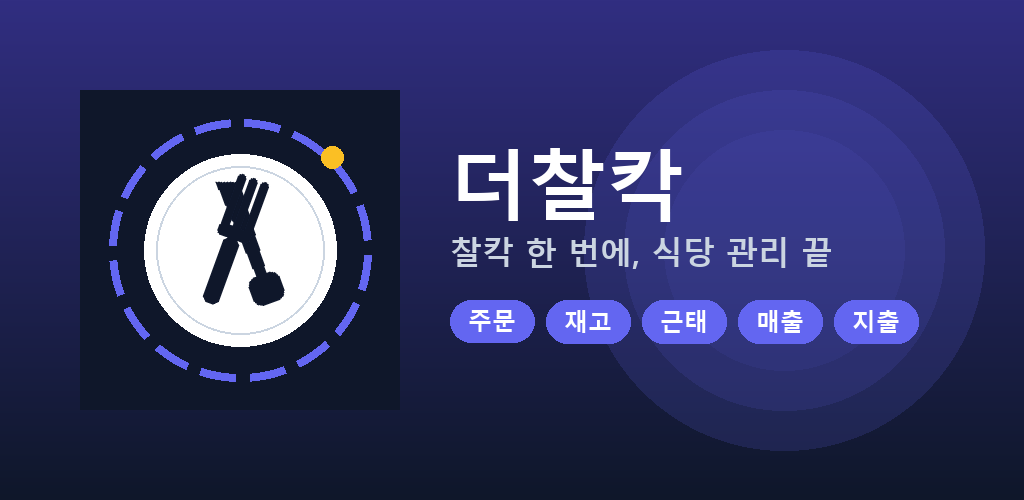
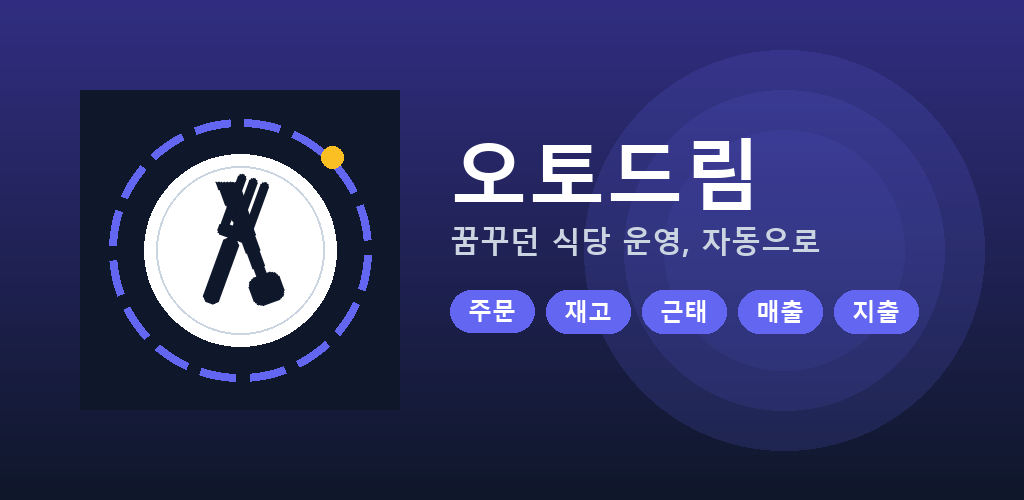
rebrand: 더찰칵 → 오토드림 + Play Store listing 정리
텍스트 변경
- manifest.ts: name/short_name/description 오토드림 반영
- layout.tsx: title, applicationName, appleWebApp.title
- 로그인 페이지: 브랜드명 + 슬로건 ("꿈꾸던 식당 운영, 오토드림이 해드립니다")
- 사장 헤더: 로고 alt 텍스트
- 개인정보처리방침: 서비스명 전체 치환 (page title 포함)

이미지
- public/feature-graphic-1024x500.png 재생성
  "오토드림" 타이틀 + "꿈꾸던 식당 운영, 자동으로" 서브 카피
  기존 로고(접시+포크&나이프+셔터링) 유지 — 식당 컨셉 지속

문서
- PLAY_STORE_LISTING.md 전면 개편: 브랜드명, 설명(체크리스트/메모/엑셀 업로드 등
  신기능 반영), Package ID com.autodream.app 기록

Package ID 변경(com.dechalkak.app → com.autodream.app)은 PWABuilder에서
새 AAB 재생성 + 새 keystore 발급 필요. 별도 단계로 진행.

Changed region(s): [[0.4375, 0.27, 0.8125, 0.54], [0.4375, 0.57, 0.9062, 0.69]]

diff --git a/src/app/privacy/page.tsx b/src/app/privacy/page.tsx
@@ -1,8 +1,8 @@
 import type { Metadata } from "next";
 
 export const metadata: Metadata = {
-  title: "개인정보처리방침 | 더찰칵",
-  description: "더찰칵 앱의 개인정보처리방침",
+  title: "개인정보처리방침 | 오토드림",
+  description: "오토드림 앱의 개인정보처리방침",
 };
 
 export const dynamic = "force-static";
@@ -17,7 +17,7 @@ export default function PrivacyPolicyPage() {
       <p className="mt-2 text-sm text-slate-500">시행일: {EFFECTIVE_DATE}</p>
 
       <p className="mt-6 leading-relaxed">
-        더찰칵(이하 &ldquo;서비스&rdquo;)은 식당 운영에 필요한 주문, 재고, 근태, 매출,
+        오토드림(이하 &ldquo;서비스&rdquo;)은 식당 운영에 필요한 주문, 재고, 근태, 매출,
         지출 관리를 위한 웹 및 모바일 애플리케이션입니다. 본 방침은 서비스가 수집하는
         개인정보의 종류, 이용 목적, 보관 기간, 제3자 제공, 이용자의 권리 등에 대해
         설명합니다.

diff --git a/src/app/(auth)/login/page.tsx b/src/app/(auth)/login/page.tsx
@@ -47,7 +47,7 @@ export default function LoginPage() {
           <div className="mx-auto mb-4 h-20 w-20 rounded-2xl overflow-hidden shadow-[0_0_40px_rgba(99,102,241,0.35)] ring-1 ring-white/10">
             <Image
               src="/icon-512.png"
-              alt="더찰칵"
+              alt="오토드림"
               width={80}
               height={80}
               className="h-full w-full object-cover"
@@ -55,10 +55,10 @@ export default function LoginPage() {
             />
           </div>
           <h1 className="text-3xl font-bold tracking-tight bg-gradient-to-r from-indigo-200 via-white to-indigo-200 bg-clip-text text-transparent">
-            더찰칵
+            오토드림
           </h1>
           <p className="mt-2 text-sm text-slate-400">
-            찰칵 한 번에, 식당 관리 끝
+            꿈꾸던 식당 운영, 오토드림이 해드립니다
           </p>
         </div>
 

diff --git a/src/app/manifest.ts b/src/app/manifest.ts
@@ -2,9 +2,9 @@ import type { MetadataRoute } from "next";
 
 export default function manifest(): MetadataRoute.Manifest {
   return {
-    name: "더찰칵",
-    short_name: "더찰칵",
-    description: "더찰칵 - 식당 운영을 위한 주문, 재고, 근태, 매출 관리 시스템",
+    name: "오토드림",
+    short_name: "오토드림",
+    description: "오토드림 - 자동화로 편해지는 식당 운영 관리 시스템 (주문·재고·근태·매출·지출)",
     start_url: "/",
     scope: "/",
     display: "standalone",

diff --git a/src/app/layout.tsx b/src/app/layout.tsx
@@ -15,13 +15,13 @@ const geistMono = Geist_Mono({
 });
 
 export const metadata: Metadata = {
-  title: "더찰칵",
-  description: "더찰칵 - 식당 관리 시스템",
-  applicationName: "더찰칵",
+  title: "오토드림",
+  description: "오토드림 - 자동화로 편해지는 식당 운영 관리",
+  applicationName: "오토드림",
   appleWebApp: {
     capable: true,
     statusBarStyle: "default",
-    title: "더찰칵",
+    title: "오토드림",
   },
   formatDetection: {
     telephone: false,

diff --git a/src/components/owner/OwnerHeader.tsx b/src/components/owner/OwnerHeader.tsx
@@ -20,7 +20,7 @@ export default function OwnerHeader() {
           <div className="h-7 w-7 overflow-hidden rounded-lg ring-1 ring-white/10">
             <Image
               src="/icon-192.png"
-              alt="더찰칵"
+              alt="오토드림"
               width={28}
               height={28}
               className="h-full w-full object-cover"

diff --git a/PLAY_STORE_LISTING.md b/PLAY_STORE_LISTING.md
@@ -1,28 +1,28 @@
-# 더찰칵 - Play Store 등록 정보
+# 오토드림 - Play Store 등록 정보
 
 ## 앱 이름
 ```
-더찰칵
+오토드림
 ```
 
 ## 간단한 설명 (80자)
 ```
-식당 운영의 모든 것. 주문·재고·근태·매출·지출을 한 앱에서 관리하세요.
+식당 운영의 모든 것을 자동으로. 주문·재고·근태·매출·지출을 한 앱에서.
 ```
-> 현재 42자 (여유 있음)
+> 현재 39자 (여유 있음)
 
 ### 다른 버전 후보
-- `우리 식당 운영, 더찰칵 하나로 끝. 주문부터 매출까지 스마트 관리.` (33자)
-- `식당 사장님을 위한 올인원 운영 관리 앱. 사장과 직원이 함께 씁니다.` (35자)
+- `식당 사장님을 위한 자동화 운영 관리 앱. 꿈꾸던 가게 운영이 현실로.` (34자)
+- `오토드림 한 번으로 우리 가게 운영 끝. 사장·직원 통합 관리.` (32자)
 
 ---
 
 ## 자세한 설명 (최대 4000자)
 
 ```
-더찰칵은 식당 사장님과 직원이 함께 사용하는 올인원 매장 운영 관리 앱입니다.
-종이 장부와 여러 앱으로 흩어져 있던 주문, 재고, 근태, 매출, 지출을 한 곳에서
-정리해 드립니다.
+오토드림은 식당 사장님과 직원이 함께 쓰는 올인원 매장 운영 관리 앱입니다.
+종이 장부와 여러 앱으로 흩어져 있던 주문·재고·근태·매출·지출을 한 곳에서
+자동으로 정리해 드립니다.
 
 ▶ 주요 기능
 
@@ -31,40 +31,51 @@
 있습니다.
 
 ● 재고 관리
-품목별 재고 수량을 기록하고, 입고·사용 내역을 추적합니다. 재고가 부족해질
-때 놓치지 않도록 도와드립니다.
+품목별 재고 수량을 기록하고 입고·사용 내역을 추적합니다. 재고가 부족해질
+때 놓치지 않도록 알려드리며, 엑셀 파일로 한 번에 등록도 가능합니다.
 
 ● 근태 관리
-직원의 출근·퇴근 시간을 기록하고, 월별 근무 내역을 정리합니다.
-직원 개개인의 급여 계산에 필요한 시급과 근무 시간이 자동으로 합산됩니다.
+직원의 출퇴근 시간을 기록하고 월별 근무 내역을 정리합니다. 시급·근무 시간
+기반으로 인건비가 자동 합산됩니다.
 
 ● 매출 & 지출
-일별·월별 매출 대시보드와 지출 내역을 한 눈에 볼 수 있습니다.
-영수증을 카메라로 촬영하면 자동으로 지출 항목이 입력됩니다.
+일별·월별 매출 대시보드와 지출 내역을 한 눈에 볼 수 있습니다. 영수증을
+카메라로 촬영하면 OCR로 자동 등록되고, 부가세·종합소득세까지 자동 계산해
+드립니다.
+
+● 주방·서빙 체크리스트
+카테고리별 업무를 시간대별 타임라인으로 관리합니다. 직원별 완료율이
+대시보드에 표시되어 업무 성과를 한눈에 파악할 수 있습니다. 체크리스트는
+엑셀로 일괄 등록도 가능합니다.
+
+● 일일 전달 메모
+교대 전달사항·특이사항·사장님께 전달·고객 컴플레인을 체크리스트와 함께
+기록합니다. 쌓이는 소통 공백을 줄여줍니다.
 
 ● 거래처 관리
 식자재 납품 거래처의 연락처와 주문 이력을 보관합니다.
 
 ● 사장 / 직원 역할 분리
-직원에게는 필요한 화면만 보이고, 사장님은 전체 경영 지표를 한눈에 확인할
-수 있습니다.
+직원에게는 필요한 화면만, 사장님에게는 전체 경영 지표가. 사장은 직원 화면도
+미리보기로 확인 가능합니다.
 
 ▶ 이런 사장님께 추천합니다
 
 ● 엑셀과 종이 장부로 관리하다 실수가 잦으셨던 분
-● 직원의 근무 시간과 급여를 좀 더 깔끔하게 정리하고 싶은 분
+● 직원의 근무 시간과 급여를 깔끔히 정리하고 싶은 분
 ● 매출·지출이 한눈에 보이는 대시보드가 필요한 분
-● 영수증이 쌓여가는데 정리할 엄두가 나지 않는 분
+● 영수증이 쌓여 있지만 정리할 엄두가 나지 않는 분
+● 업무 체크리스트를 체계적으로 관리하고 싶은 분
 
 ▶ 안내 사항
 
-● 더찰칵은 로그인 후 사용하는 매장 운영 전용 앱입니다.
+● 오토드림은 로그인 후 사용하는 매장 운영 전용 앱입니다.
 ● 카메라 권한은 영수증 촬영 시에만 사용됩니다.
 ● 푸시 알림은 주문 접수·재고 경고 등 업무 용도로만 사용됩니다.
 
 ▶ 문의
 
-앱 관련 문의나 제안은 jaewonhyeon9@gmail.com으로 보내주세요.
+앱 관련 문의나 제안은 jaewonhyeon9@gmail.com 으로 보내주세요.
 서비스 개선에 소중히 반영하겠습니다.
 ```
 
@@ -72,13 +83,20 @@
 
 ## 카테고리
 - **앱 카테고리**: 비즈니스 (Business)
-- **태그**: 식당, 매장, 운영, 관리, 주문, 재고, 근태, POS, 소상공인
+- **태그**: 식당, 매장, 운영, 관리, 주문, 재고, 근태, POS, 소상공인, 자동화, 체크리스트
 
 ---
 
 ## 개인정보처리방침 URL
 ```
 https://restraunt-ebon-phi.vercel.app/privacy
+```
+
+---
+
+## Package ID
+```
+com.autodream.app
 ```
 
 ---
